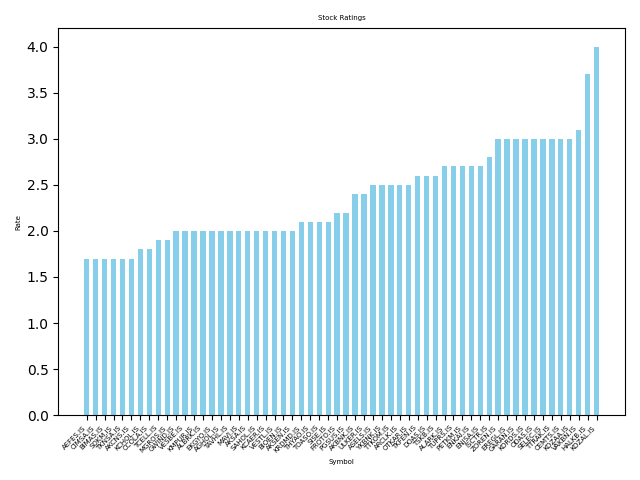
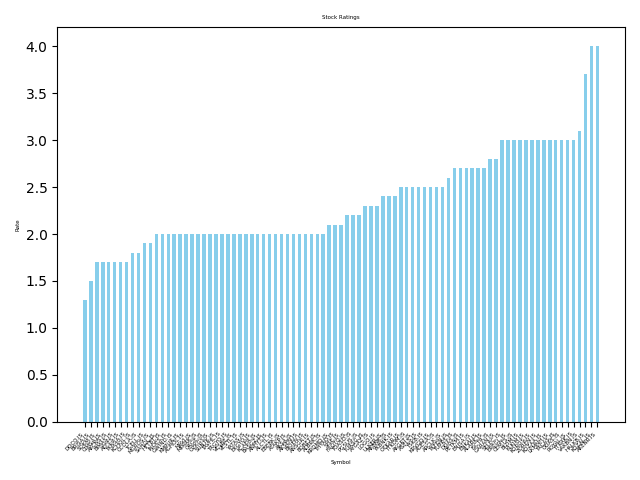
modified added

diff --git a/Stock-Analysis/app.py b/Stock-Analysis/app.py
@@ -6,6 +6,8 @@ import matplotlib.pyplot as plt
 import os
 from multiprocessing import Pool
 import logging
+import datetime
+
 
 # Assign Log message
 logger = logging.getLogger(__name__)
@@ -67,7 +69,7 @@ def display_data(data, sort=False):
     print(df.head())
     return df
 
-def plot_data(df, save_figure=False, figure_filename="plot.png", bar_width=0.6, font_size=5):
+def plot_data(df, save_figure=False, figure_filename="plot.png", bar_width=0.6, font_size=3, dpi=700):
     """Plot stock ratings.
     
     Args:
@@ -76,6 +78,7 @@ def plot_data(df, save_figure=False, figure_filename="plot.png", bar_width=0.6, 
         figure_filename (str): Filename to save the plot.
         bar_width (float): Width of the bars in the bar plot.
         font_size (int): Font size for plot labels.
+        dpi (int): Dots per inch for the saved image.
     """
     plt.bar(df['Symbol'], df['Rate'], color='skyblue', width=bar_width)
     plt.xlabel('Symbol', fontsize=font_size)
@@ -84,7 +87,9 @@ def plot_data(df, save_figure=False, figure_filename="plot.png", bar_width=0.6, 
     plt.xticks(rotation=45, ha='right', fontsize=font_size)
     plt.tight_layout()
     if save_figure:
-        plt.savefig(figure_filename)  # Save the figure to a file
+        current_time = datetime.datetime.now().strftime("%Y-%m-%d-%H-%M")
+        figure_filename = f"plot_{current_time}.png"
+        plt.savefig(figure_filename, dpi=dpi)  # Save the figure to a file with higher resolution
         logger.info(f"Figure saved as {figure_filename}.")  # Log that the figure has been saved
     else:
         plt.show()
